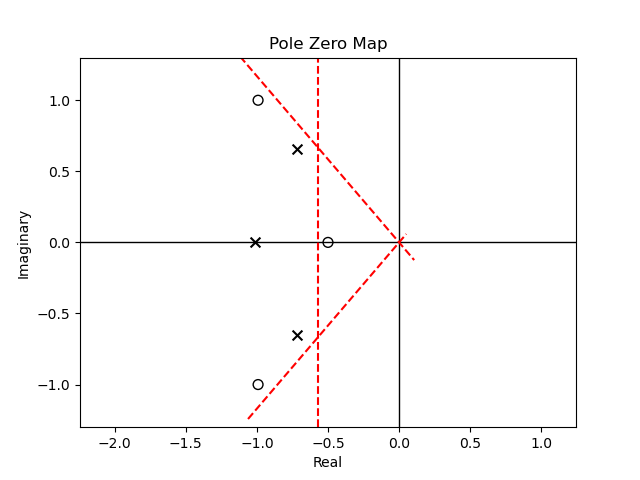
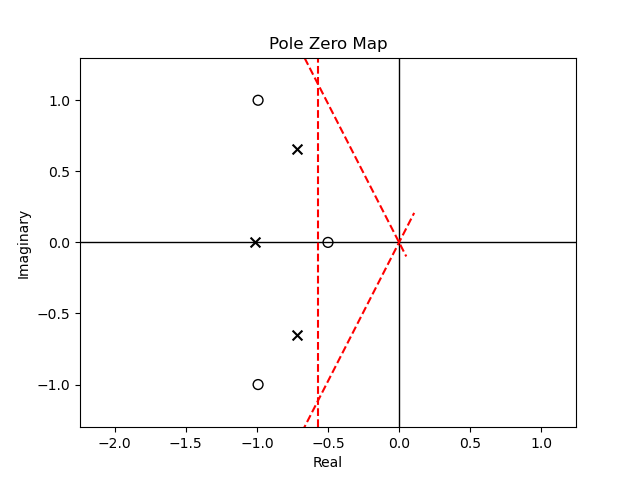
Development final exercise 3 Correction on os_cosines()

diff --git a/final_exercises/exercise3/exercise3.py b/final_exercises/exercise3/exercise3.py
@@ -1,25 +1,29 @@
 import control as co
-import numpy as np
 import matplotlib.pyplot as plt
-from functions.my_functions import step_info, step_info_return
+import numpy as np
+from scipy import signal as sg
+from control.matlab import lsim
+from functions.my_functions import step_info
+
 
 def find_nearest(array, value):
     array = np.asarray(array)
     idx = (np.abs(array - value)).argmin()
     return array[idx]
 
+
 s = co.tf('s')
 j = 0.01
 c = 0.004
 k = 10
 km = 0.05
-t = np.linspace(1,30,5000)
+t = np.linspace(1, 30, 5000)
 
-#1)
+# 1)
 g = km / (j * s ** 2 + c * s + k)
 print(g)
 
-#2)
+# 2)
 t1, gstp = co.step_response(g, t)
 step_info(t1, gstp)
 plt.figure(1)
@@ -27,8 +31,8 @@ plt.title('Step Response')
 plt.plot(t1, gstp)
 plt.grid()
 
-#3)
-t2, gstp2 = co.step_response(3*g, t)
+# 3)
+t2, gstp2 = co.step_response(3 * g, t)
 step_info(t2, gstp2)
 plt.figure(2)
 plt.title('Step Response')
@@ -43,34 +47,105 @@ ts2nearest = find_nearest(t2,ts2)
 y2setling_time = data2[t2 == ts2nearest, 1]
 """
 
-
-
 """plt.plot(ts2nearest, y2setling_time, 'ro')
 plt.annotate('settling time',xy=(ts2,y2setling_time))
 plt.axvline(ts2nearest,ymin=0, ymax=0.5, color='grey',linestyle='--')
 plt.axhline(y2setling_time,xmin=0, xmax=0.5, color='grey',linestyle='--')"""
 
-#4)
-t4, imp = co.impulse_response(3*g, t)
-#step_info(t4, imp)
+# 4)
+t4, imp = co.impulse_response(3 * g, t)
+# step_info(t4, imp)
 plt.figure(3)
 plt.title('Impulse Response')
 plt.plot(t4, imp)
 plt.grid()
 
-#5)
+# 5)
 plt.figure(4)
 print(co.pole(g))
 co.pzmap(g)
 
-#6)
+# 6)
 plt.figure(5)
-co.sisotool(g)
+# co.sisotool(g)
 """Δεν υπάρχει"""
 
-#7)
-plt.figure(6)
 
+# 7)
+def add_zero(szero):
+    if szero == 0:
+        szero = 0.001
+
+    cz = 1 - (s / szero)
+    return cz
+
+
+def plot_ts(TS):
+    plt.axvline(-4 / TS, color='r', linestyle='--')
+
+
+k = 1200
+
+plt.figure(6)
+plot_ts(0.07)
+co.root_locus(add_zero(-40) * g, grid=False)
+
+gf1 = co.feedback(k * add_zero(-40) * g, 1, -1)
+pol_values = co.pole(gf1)
+plt.plot(pol_values.real, pol_values.imag, 'rx')
+
+tstep, ystp = co.step_response(gf1, t)
+step_info(tstep, ystp)
+
+
+# 8)
+
+def os_cosines(x):
+    log2 = (np.log(x)) ** 2
+    pi2 = (np.pi) ** 2
+    numrator = np.log(x)
+    denominator = np.sqrt(log2 + pi2)
+    return numrator / denominator
+
+
+def plot_line(slope):
+    axes = plt.gca()
+    x_vals = np.array(axes.get_xlim())
+    y_vals = slope * x_vals
+    plt.plot(x_vals, y_vals, 'r--')
+
+
+plt.figure(7)
+plot_ts(0.07)
+co.root_locus(add_zero(-40) * g, grid=False)
+
+k2 = 1200
+gf2 = co.feedback(k2 * add_zero(-40) * g, 1, -1)
+pol_values2 = co.pole(gf2)
+plt.plot(pol_values2.real, pol_values2.imag, 'rx')
+
+print(os_cosines(0.05))
+slope1 = np.tan(np.arccos(os_cosines(0.05)))
+plot_line(slope1)
+plot_line(-slope1)
+
+tstep2, ystp2 = co.step_response(gf2, t)
+step_info(tstep2, ystp2)
+plt.xlim(-100,1)
+
+
+#9)
+period = 0.1
+freq = 1/period
+amp = 1
+time = np.linspace(0,1,1000)
+signal_sqr = amp * sg.square(2 * np.pi *freq * time)
+plt.figure(8)
+plt.plot(time, signal_sqr)
+closedsys,tclosed , xout= lsim(gf2, signal_sqr, time)
+
+plt.figure(9)
+plt.plot(tclosed, closedsys)
 
 
 plt.show()

diff --git a/lab8/exercises/exercise1/part_b/question1_b/exercise1_b_1b.py b/lab8/exercises/exercise1/part_b/question1_b/exercise1_b_1b.py
@@ -29,7 +29,7 @@ h2 = 1 / (s - 1)
 
 # b)
 k = 150
-gf = co.feedback(k * lead_comp(-60, -10) * g, h2, -1)  # υπολογίζω τους πόλου και τα μηδενικά του κλειστού συστήματος με Κ = 120 και feedback=h2
+gf = co.feedback(k * lead_comp(-60, -10) * g, h2, -1)  # υπολογίζω τους πόλου και τα μηδενικά του κλειστού συστήματος με Κ = 150 και feedback=h2
 poles = co.pole(gf)
 zeros = co.zero(gf)
 print(poles, zeros)

diff --git a/lab7/exercises/exercise3/exercise3.py b/lab7/exercises/exercise3/exercise3.py
@@ -6,9 +6,9 @@ import numpy as np
 def os_cosines(x):
     log2 = (np.log(x)) ** 2
     pi2 = (np.pi) ** 2
-    enumrator = log2 + np.sqrt((1 + 4 * pi2) * log2)
-    denominator = 2 * pi2
-    return enumrator / denominator
+    numrator = np.log(x)
+    denominator = np.sqrt(log2+pi2)
+    return numrator / denominator
 
 def plot_line(slope):
     axes = plt.gca()
